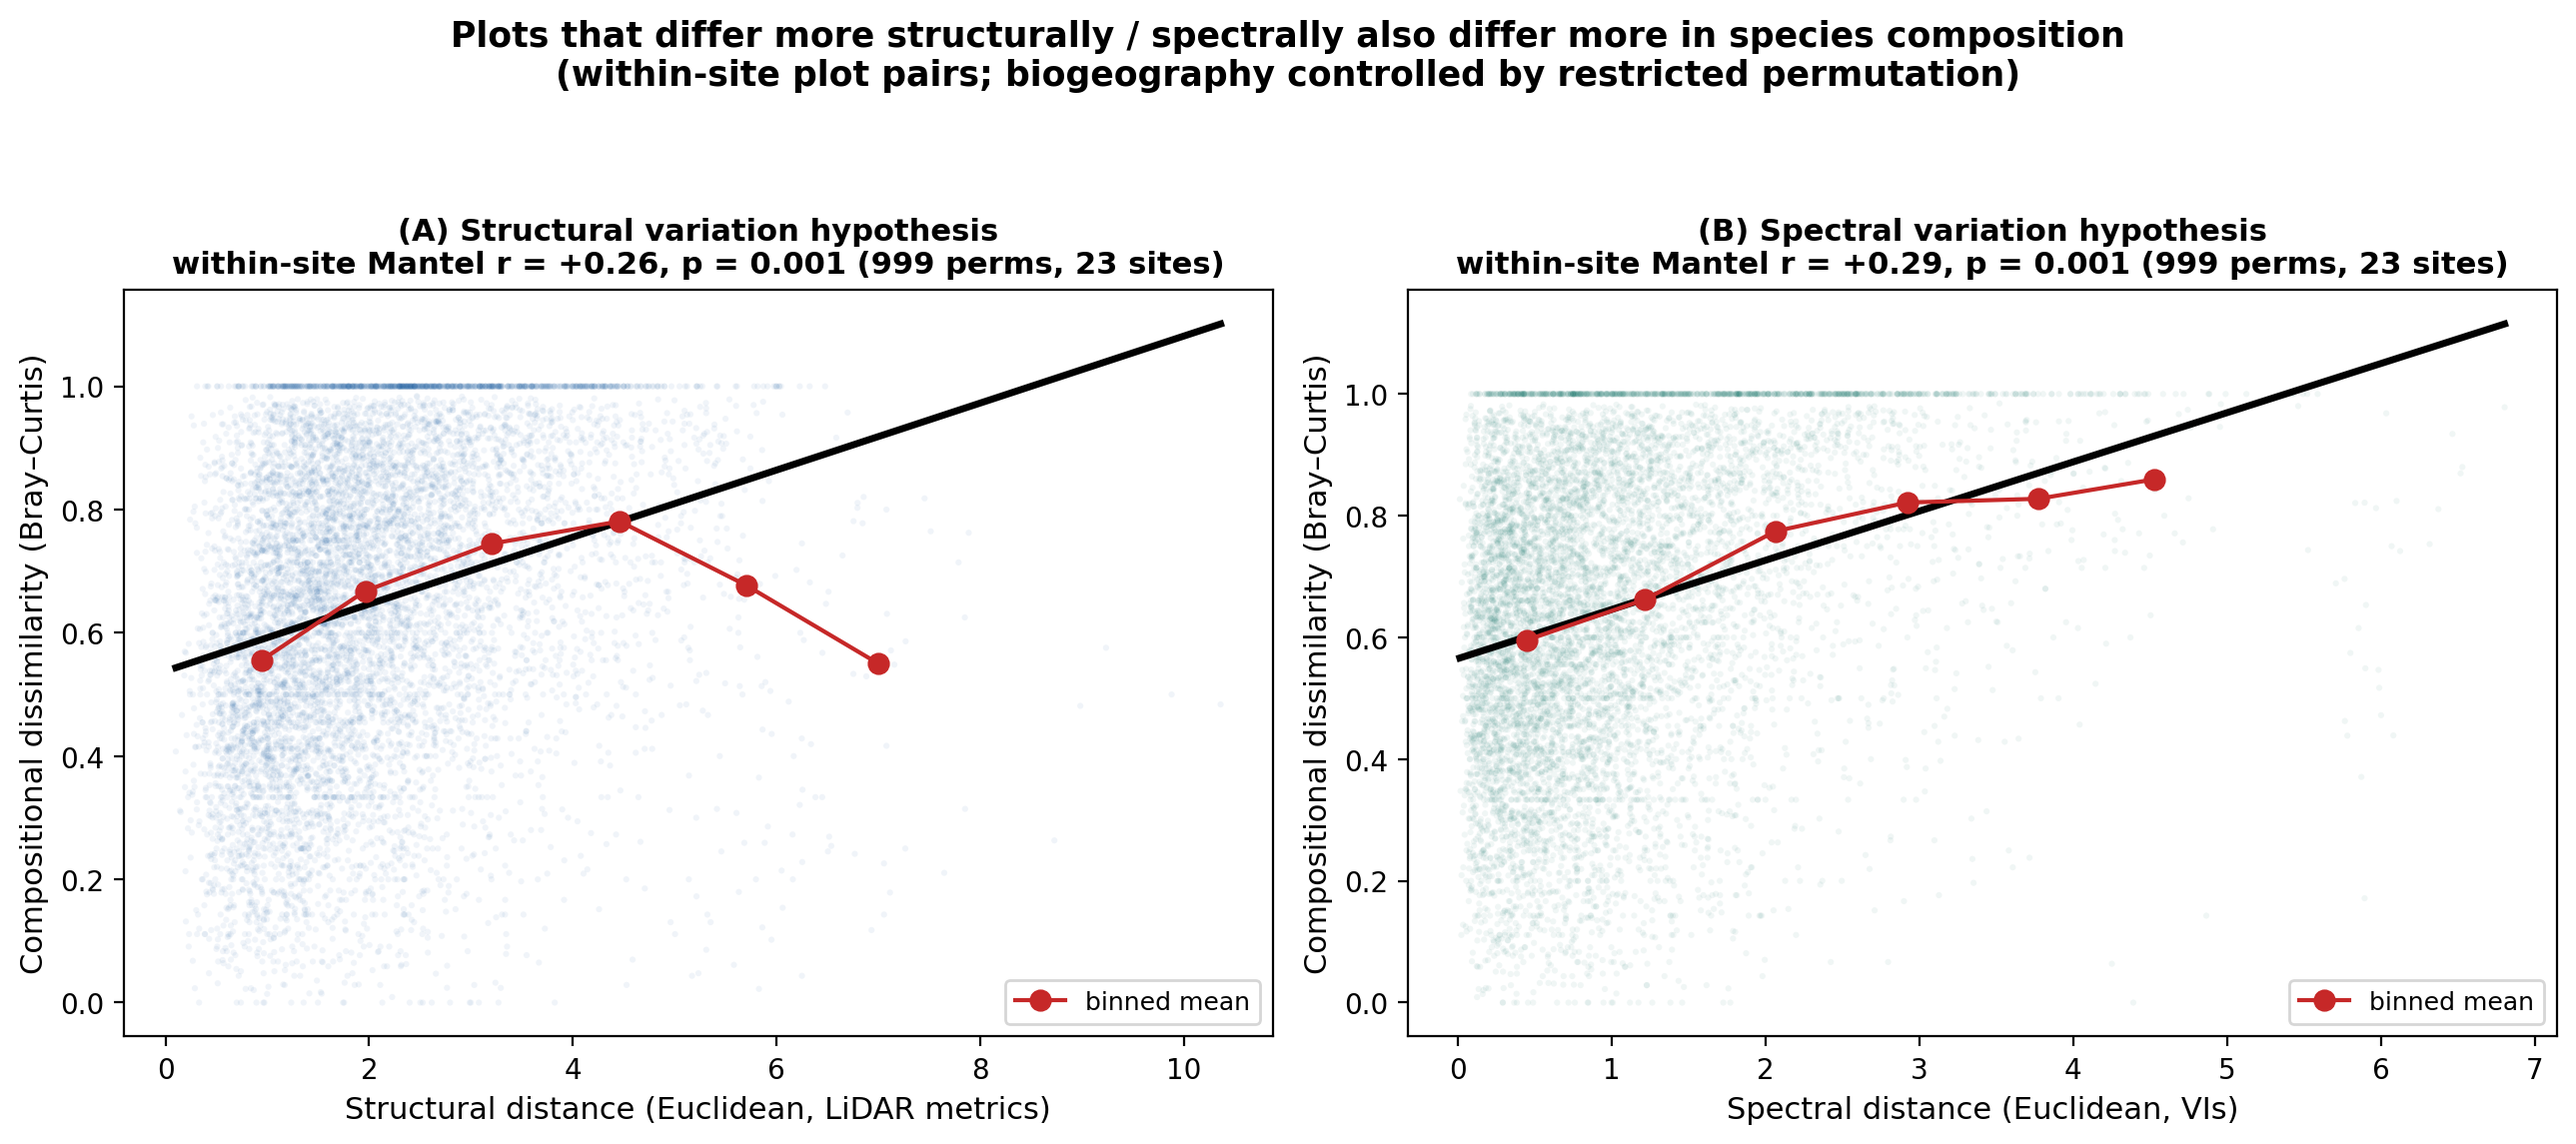
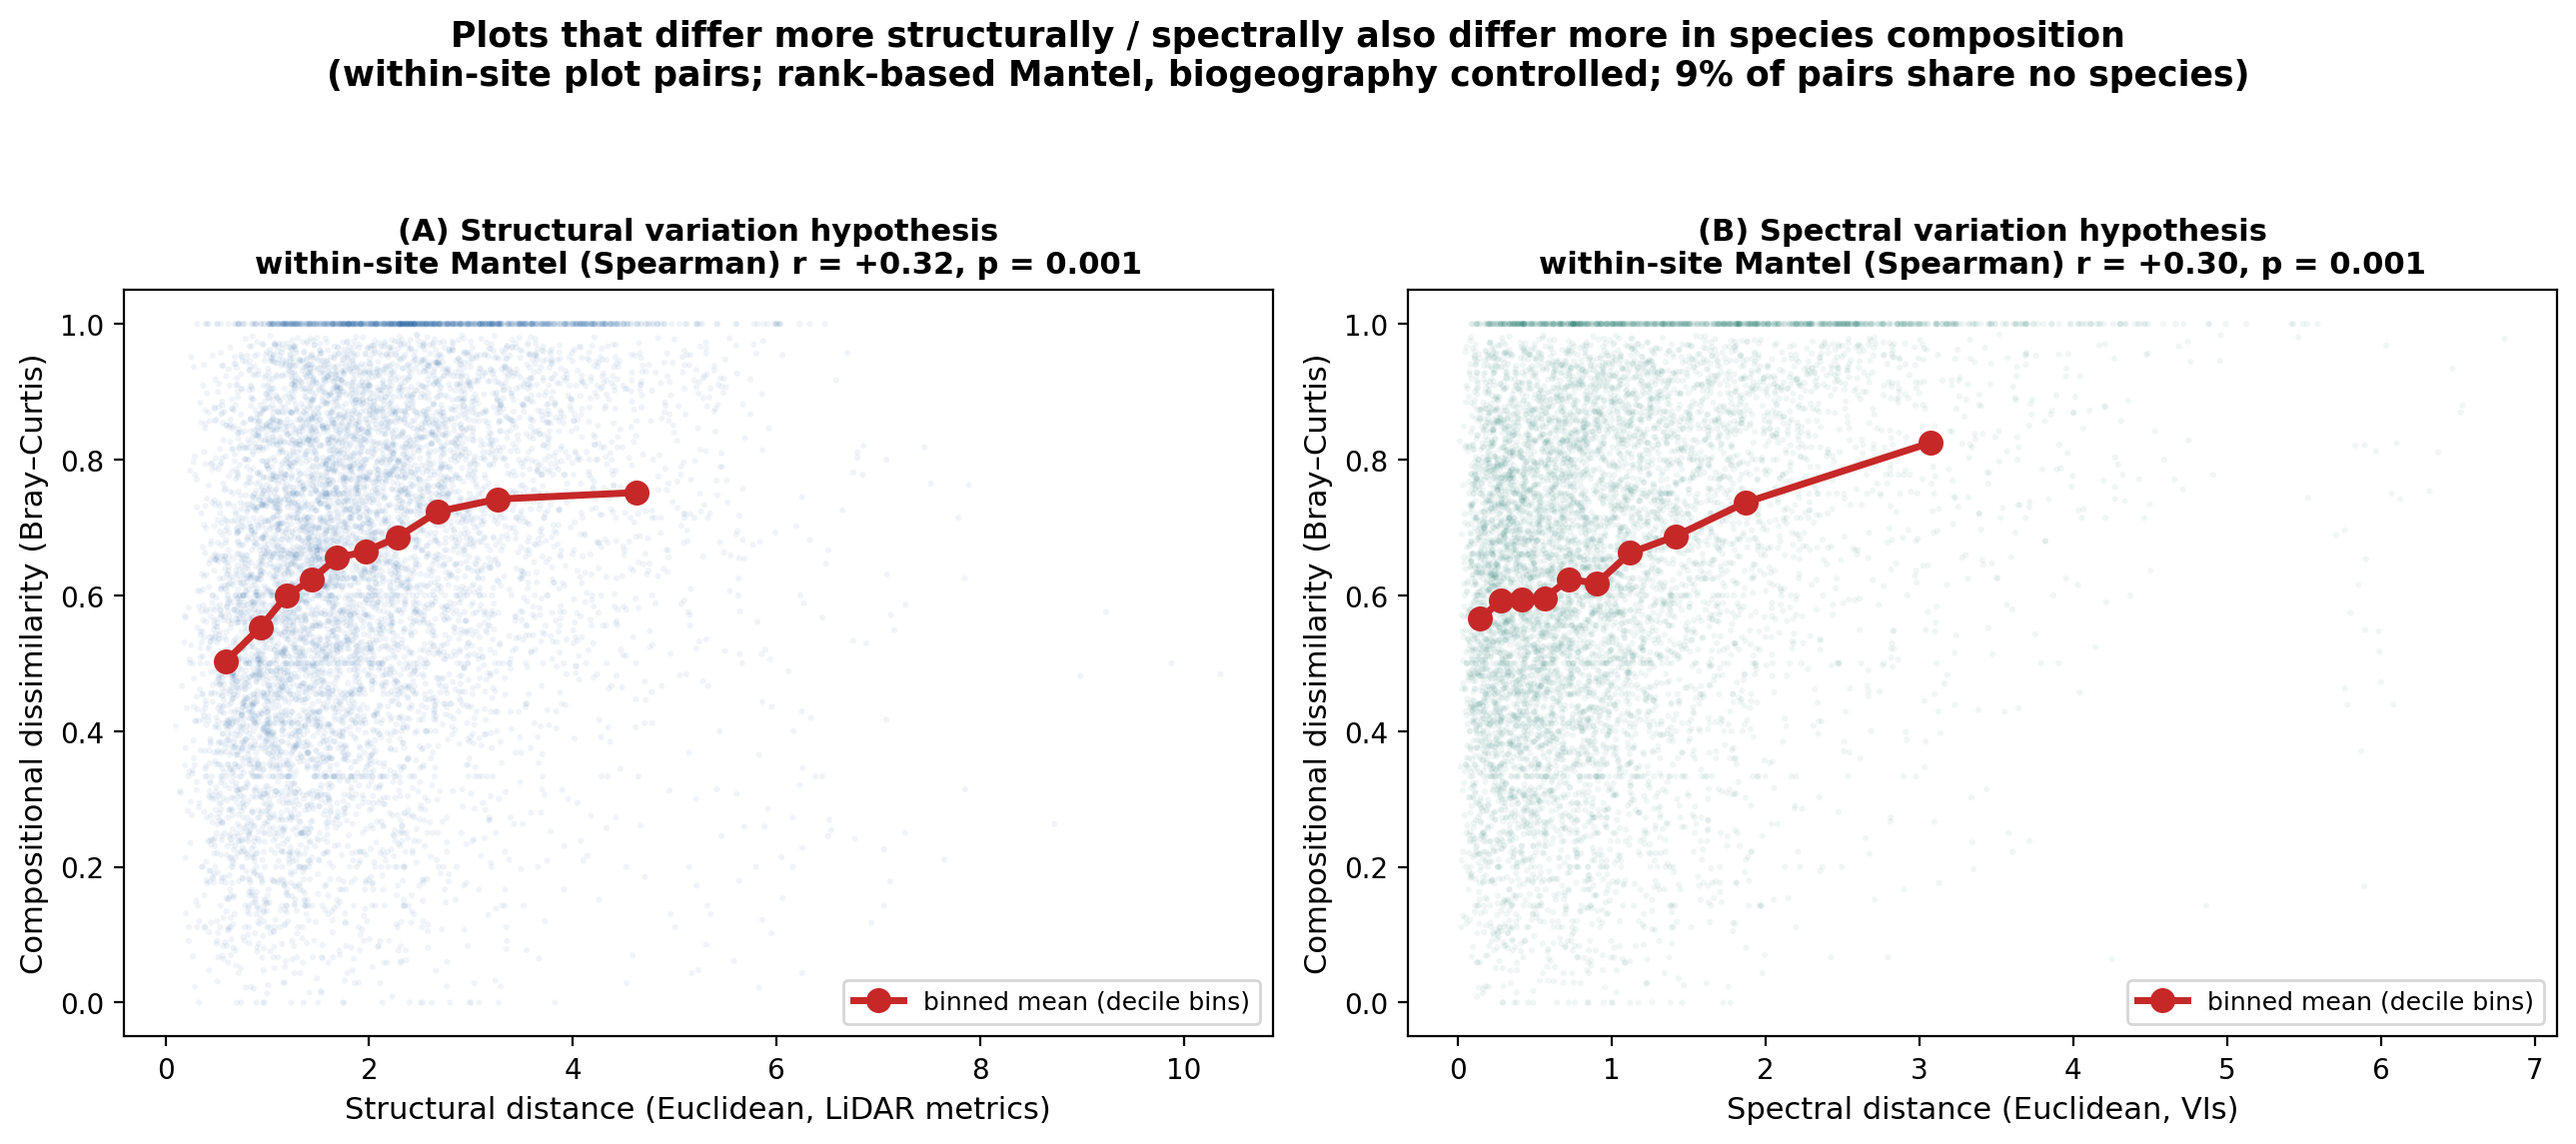
RS variation figure: rank-based Mantel (robust to Bray-Curtis ceiling)
9% of within-site plot pairs share no species (Bray-Curtis=1, a saturating ceiling)
that attenuates/distorts the linear fit. Switched to rank-based (Spearman) Mantel:
structural r=+0.32, spectral r=+0.30 (both p=0.001) — stronger than Pearson
(0.26/0.29), confirming the ceiling was attenuating the estimate. Figure now shows
decile-binned monotonic-saturating trend (removed the misleading straight-line fit
and noisy sparse tail bins). §3.1b and supplementary updated.

Claude-Session: https://claude.ai/code/session_014QmjDFaec9SLSW3vnUrtQu

diff --git a/scripts_pipeline/fig_rs_variation.py b/scripts_pipeline/fig_rs_variation.py
@@ -1,5 +1,6 @@
 import pandas as pd, numpy as np
 from scipy.spatial.distance import pdist, squareform
+from scipy.stats import rankdata
 import matplotlib; matplotlib.use("Agg"); import matplotlib.pyplot as plt
 VS="E:/neon_lidar/vegetation_structure"; D="NEON_v2/data/"; FIG="NEON_v2/papers/UNIFIED/figures/"
 mt=pd.read_csv(f"{VS}/vst_mappingandtagging.csv",usecols=['individualID','plotID','taxonID','siteID'],low_memory=False)
@@ -19,17 +20,16 @@ for s,g in f.groupby('siteID'):
     Y.append(pdist(sad.loc[common].values,metric='braycurtis'))
     XSt.append(pdist(gg[['z_'+c for c in Scols]].values)); XSe.append(pdist(gg[['z_'+c for c in Pcols]].values))
 y=np.concatenate(Y); xst=np.concatenate(XSt); xse=np.concatenate(XSe)
-rst=np.corrcoef(xst,y)[0,1]; rse=np.corrcoef(xse,y)[0,1]
+rst=np.corrcoef(rankdata(xst),rankdata(y))[0,1]; rse=np.corrcoef(rankdata(xse),rankdata(y))[0,1]  # Spearman
 fig,ax=plt.subplots(1,2,figsize=(13,5.8))
 for a,(xx,r,lab,col) in zip(ax,[(xst,rst,"Structural distance (Euclidean, LiDAR metrics)","#08519c"),(xse,rse,"Spectral distance (Euclidean, VIs)","#00695c")]):
     a.scatter(xx,y,s=5,alpha=0.06,color=col,edgecolor="none")
-    b1,b0=np.polyfit(xx,y,1); xr=np.linspace(xx.min(),xx.max(),50); a.plot(xr,b0+b1*xr,color="black",lw=2.5)
     # binned means for readability
-    bins=np.linspace(xx.min(),xx.max(),9); idx=np.digitize(xx,bins)
-    bx=[xx[idx==k].mean() for k in range(1,9) if (idx==k).sum()>20]; by=[y[idx==k].mean() for k in range(1,9) if (idx==k).sum()>20]
-    a.plot(bx,by,'o-',color="#c62828",ms=7,lw=1.5,zorder=4,label="binned mean")
+    bins=np.quantile(xx,np.linspace(0,1,11)); idx=np.digitize(xx,bins)
+    bx=[xx[idx==k].mean() for k in range(1,11) if (idx==k).sum()>=50]; by=[y[idx==k].mean() for k in range(1,11) if (idx==k).sum()>=50]
+    a.plot(bx,by,'o-',color="#c62828",ms=8,lw=2.5,zorder=4,label="binned mean (decile bins)")
     a.set_xlabel(lab,fontsize=11); a.set_ylabel("Compositional dissimilarity (Bray–Curtis)",fontsize=11)
-    a.set_title(f"{'(A) Structural' if col=='#08519c' else '(B) Spectral'} variation hypothesis\nwithin-site Mantel r = {r:+.2f}, p = 0.001 (999 perms, 23 sites)",fontweight="bold",fontsize=11)
+    a.set_title(f"{'(A) Structural' if col=='#08519c' else '(B) Spectral'} variation hypothesis\nwithin-site Mantel (Spearman) r = {r:+.2f}, p = 0.001",fontweight="bold",fontsize=11)
     a.legend(fontsize=9,loc="lower right")
-fig.suptitle("Plots that differ more structurally / spectrally also differ more in species composition\n(within-site plot pairs; biogeography controlled by restricted permutation)",fontweight="bold",fontsize=12.5)
+fig.suptitle("Plots that differ more structurally / spectrally also differ more in species composition\n(within-site plot pairs; rank-based Mantel, biogeography controlled; 9% of pairs share no species)",fontweight="bold",fontsize=12.5)
 fig.tight_layout(rect=[0,0,1,0.93]); fig.savefig(FIG+"F3_rs_variation_beta.png",dpi=200,bbox_inches="tight"); print("saved F3, pairs n=",len(y))

diff --git a/NEON_v2/papers/UNIFIED/RESULTS_26site_draft.md b/NEON_v2/papers/UNIFIED/RESULTS_26site_draft.md
@@ -23,7 +23,7 @@ Partitioning the explained variance into unique block contributions (semi-partia
 
 ### 3.1b Remote-sensing heterogeneity tracks compositional turnover (variation hypothesis)
 
-The plot-level framework above treats each remote-sensing dimension as a set of predictors and finds little unique signal for beta diversity — but this is a question about predictor *levels*, not about heterogeneity. When we instead ask whether plots that are more dissimilar in remote-sensing space are also more dissimilar in composition (the structural/spectral "variation hypothesis"), the answer is yes. Within-site, restricted-permutation Mantel tests (999 permutations of plots within sites, so biogeography and site identity are held fixed) showed that both structural and spectral dissimilarity were positively and significantly associated with compositional (Bray–Curtis) dissimilarity: structural Mantel r = +0.26 and spectral r = +0.29 (both p = 0.001; 8,813 within-site plot pairs across 23 sites; Fig. 3). The relationship is modest (≈ 7% of the variance in compositional dissimilarity) but robust, and it is specific to replacement: structural and spectral local uniqueness (LCBD) correlated with compositional turnover (r ≈ 0.22–0.24) but not with richness difference (nestedness; r ≈ 0.02 to −0.10). Remote sensing is therefore not blind to compositional turnover — plots that look structurally or spectrally different do tend to differ in species — but the signal emerges only when remote sensing is analysed as heterogeneity (dissimilarity) rather than as plot-level predictor levels, and it remains weak, consistent with much of local species replacement being driven by soil, microtopography and stochastic processes that the canopy does not record.
+The plot-level framework above treats each remote-sensing dimension as a set of predictors and finds little unique signal for beta diversity — but this is a question about predictor *levels*, not about heterogeneity. When we instead ask whether plots that are more dissimilar in remote-sensing space are also more dissimilar in composition (the structural/spectral "variation hypothesis"), the answer is yes. Within-site, restricted-permutation Mantel tests (999 permutations of plots within sites, so biogeography and site identity are held fixed) showed that both structural and spectral dissimilarity were positively and significantly associated with compositional (Bray–Curtis) dissimilarity. Because 9% of within-site plot pairs share no species (Bray–Curtis = 1, a saturating ceiling), we used rank-based (Spearman) Mantel correlations, which are robust to that ceiling: structural r = +0.32 and spectral r = +0.30 (both p = 0.001; 8,813 within-site plot pairs across 23 sites; Fig. 3; the relationship is monotonic and saturating, and Pearson estimates are similar but slightly attenuated, r = 0.26 and 0.29). The relationship is modest but robust, and it is specific to replacement: structural and spectral local uniqueness (LCBD) correlated with compositional turnover (r ≈ 0.22–0.24) but not with richness difference (nestedness; r ≈ 0.02 to −0.10). Remote sensing is therefore not blind to compositional turnover — plots that look structurally or spectrally different do tend to differ in species — but the signal emerges only when remote sensing is analysed as heterogeneity (dissimilarity) rather than as plot-level predictor levels, and it remains weak, consistent with much of local species replacement being driven by soil, microtopography and stochastic processes that the canopy does not record.
 
 ### 3.2 Static canopy structure provides the broadest biodiversity signal
 

diff --git a/NEON_v2/papers/UNIFIED/results/O0_framework/rs_variation_hypothesis.md b/NEON_v2/papers/UNIFIED/results/O0_framework/rs_variation_hypothesis.md
@@ -4,10 +4,11 @@ Question: do plots more dissimilar in remote-sensing (structural/spectral) space
 differ more in species composition? Tested two ways, within-site, biogeography controlled.
 
 ## Within-site restricted-permutation Mantel (999 perms, 23 sites, 8,813 plot pairs)
+Note: 9% of within-site pairs share no species (Bray-Curtis=1, ceiling) -> rank-based (Spearman) Mantel used.
 | RS dissimilarity | vs compositional (Bray–Curtis) | p |
 |---|---|---|
-| Structural distance (Euclidean, LiDAR metrics) | Mantel r = +0.26 | 0.001 |
-| Spectral distance (Euclidean, VIs) | Mantel r = +0.29 | 0.001 |
+| Structural distance (Euclidean, LiDAR metrics) | Spearman Mantel r = +0.32 (Pearson +0.26) | 0.001 |
+| Spectral distance (Euclidean, VIs) | Spearman Mantel r = +0.30 (Pearson +0.29) | 0.001 |
 
 ## LCBD (plot uniqueness) correlations
 | RS LCBD | vs turnover LCBD | vs nestedness LCBD |
